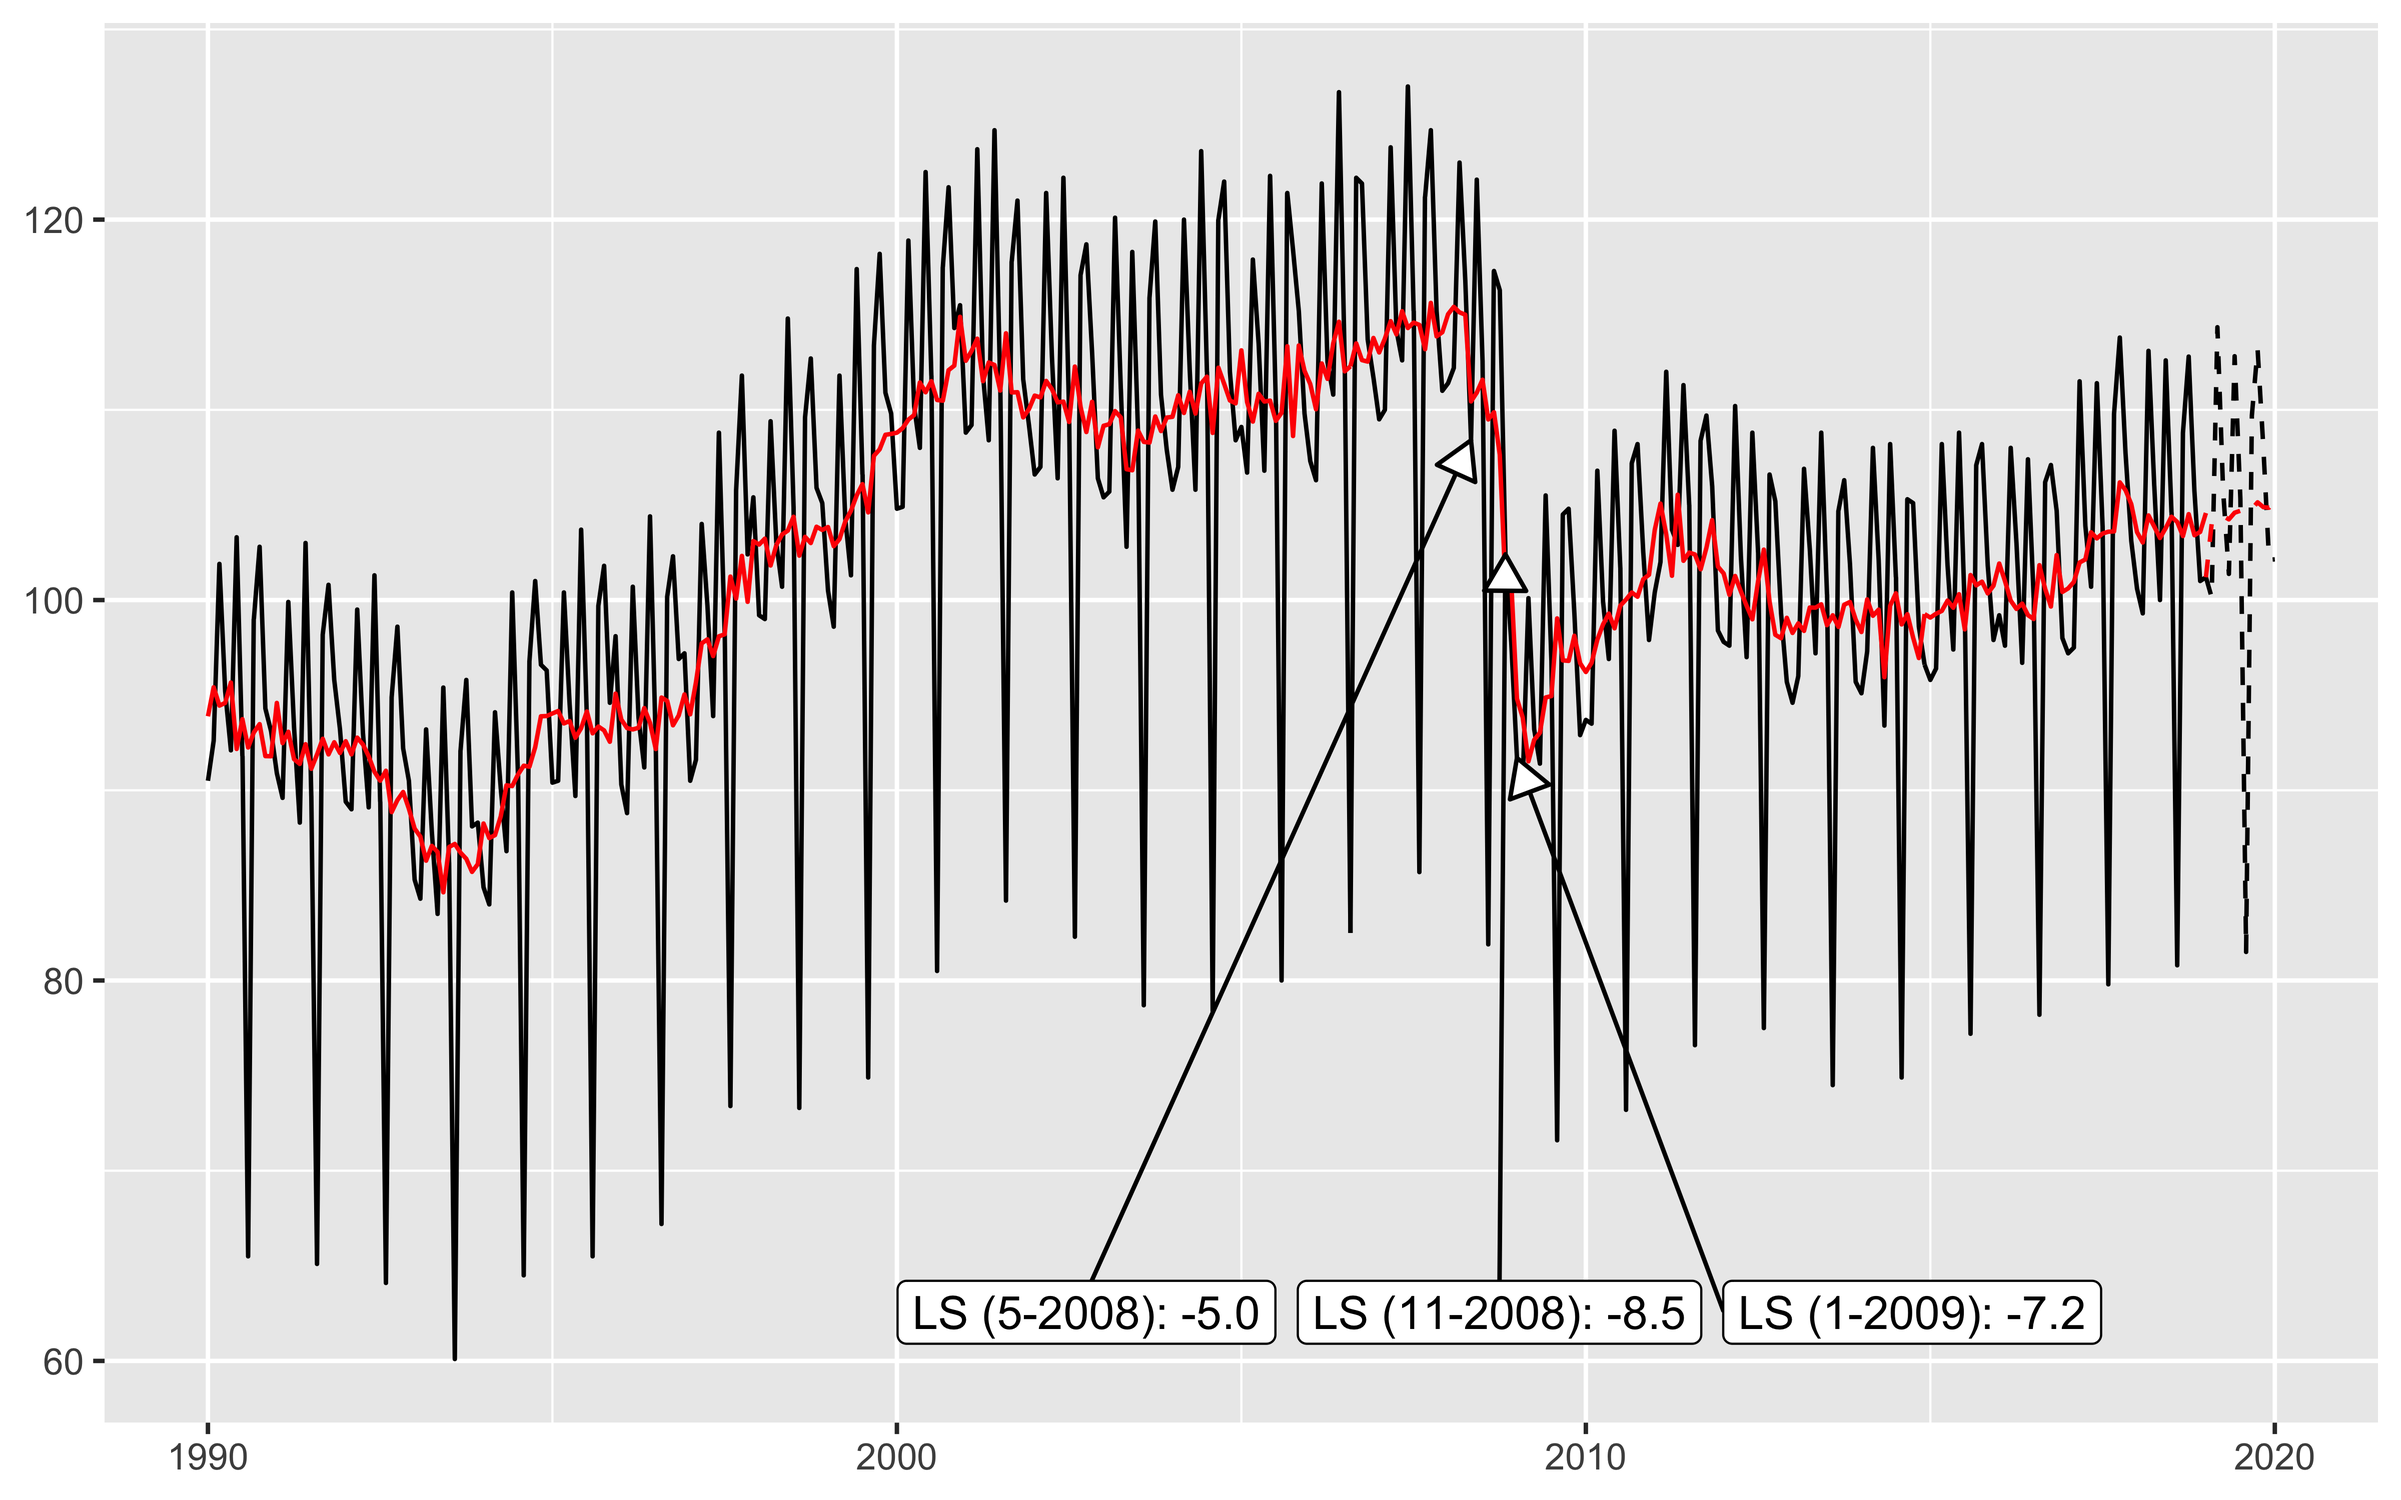
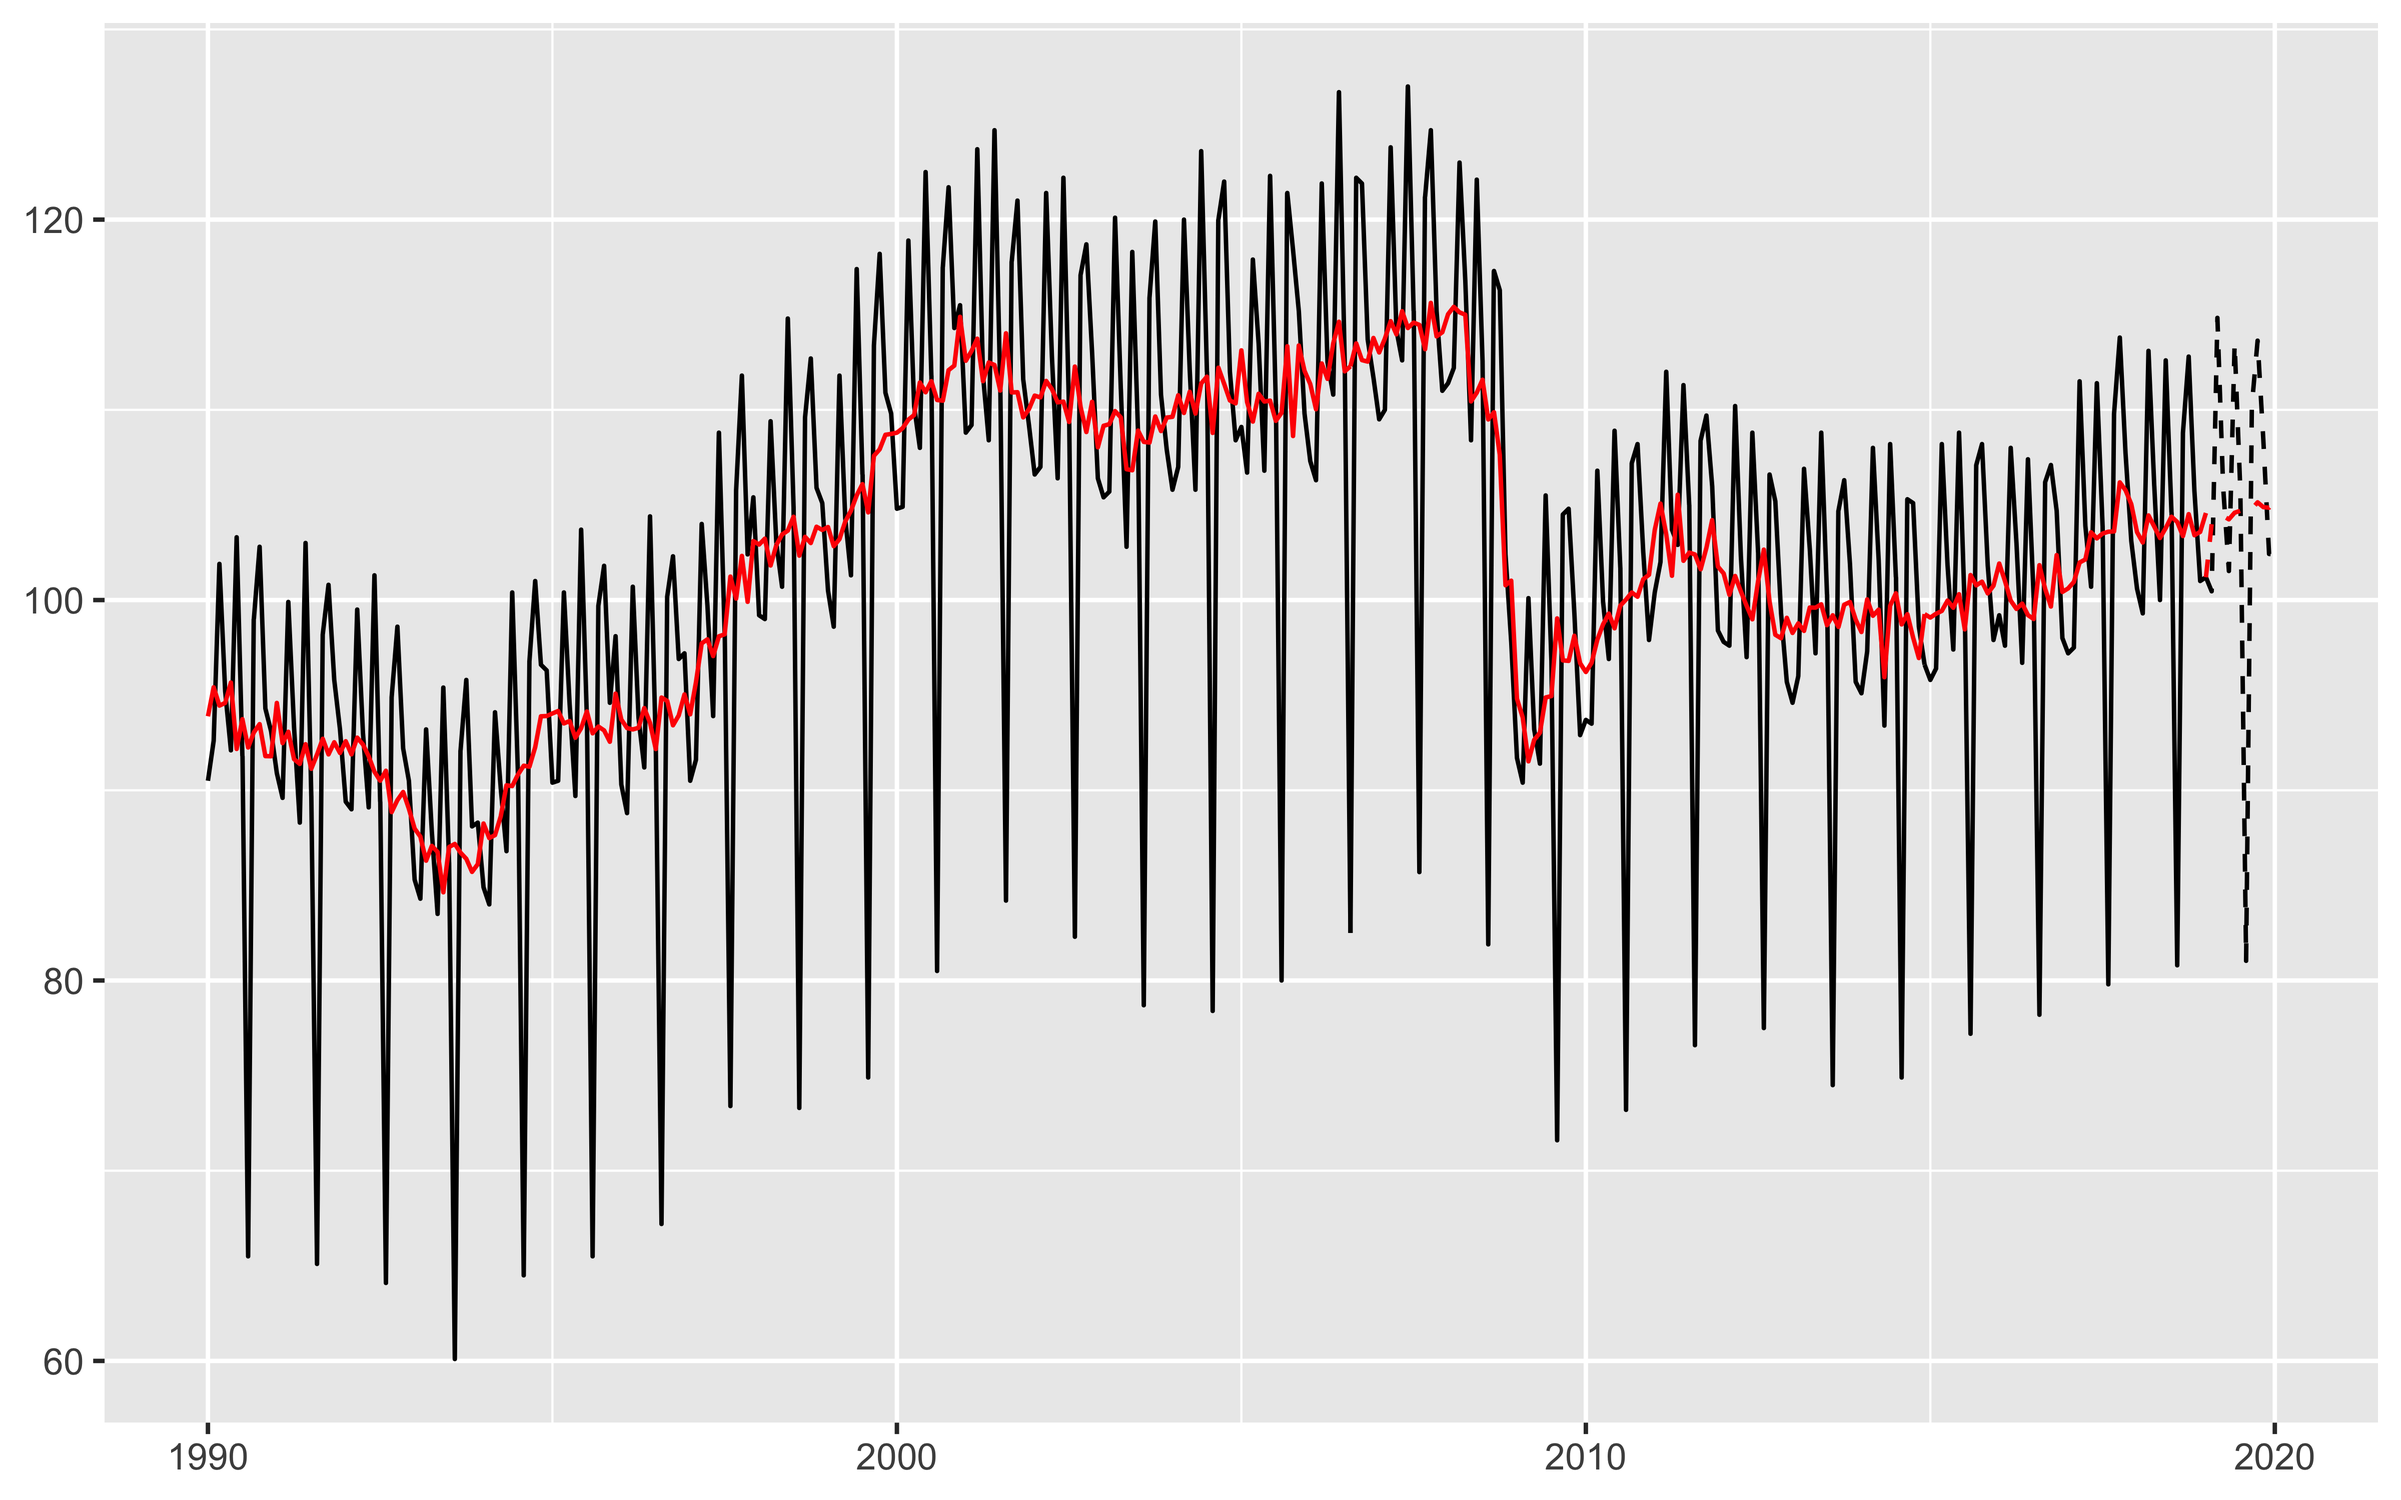
update documentation

diff --git a/docs/articles/rjdmarkdown-html.html b/docs/articles/rjdmarkdown-html.html
@@ -884,22 +884,16 @@ f-test on i (td)
 <div id="tramo-seats-model" class="section level1">
 <h1 class="hasAnchor">
 <a href="#tramo-seats-model" class="anchor"></a>TRAMO-SEATS model</h1>
-<p>Some others graphics can also be added with the <code>ggdemetra</code> package</p>
+<p>Some others graphics can also be added with the <a href="https://aqlt.github.io/ggdemetra/"><code>ggdemetra</code></a> package, for example to add the seasonally adjusted series and its forecasts:</p>
 <div class="sourceCode" id="cb5"><pre class="sourceCode r"><code class="sourceCode r"><a class="sourceLine" id="cb5-1" title="1"><span class="kw"><a href="https://rdrr.io/r/base/library.html">library</a></span>(ggdemetra)</a>
 <a class="sourceLine" id="cb5-2" title="2"><span class="kw">ggplot</span>(<span class="dt">data =</span> ipi_c_eu_df, <span class="dt">mapping =</span> <span class="kw">aes</span>(<span class="dt">x =</span> date, <span class="dt">y =</span> FR)) <span class="op">+</span></a>
 <a class="sourceLine" id="cb5-3" title="3"><span class="st">    </span><span class="kw">geom_line</span>() <span class="op">+</span></a>
 <a class="sourceLine" id="cb5-4" title="4"><span class="st">    </span><span class="kw">labs</span>(<span class="dt">title =</span> <span class="ot">NULL</span>,</a>
 <a class="sourceLine" id="cb5-5" title="5">         <span class="dt">x =</span> <span class="ot">NULL</span>, <span class="dt">y =</span> <span class="ot">NULL</span>) <span class="op">+</span></a>
 <a class="sourceLine" id="cb5-6" title="6"><span class="st">    </span><span class="kw"><a href="https://rdrr.io/pkg/ggdemetra/man/geom_sa.html">geom_sa</a></span>(<span class="dt">component =</span> <span class="st">"y_f"</span>, <span class="dt">linetype =</span> <span class="dv">2</span>,</a>
-<a class="sourceLine" id="cb5-7" title="7">            <span class="dt">frequency =</span> <span class="dv">12</span>) <span class="op">+</span><span class="st"> </span></a>
+<a class="sourceLine" id="cb5-7" title="7">            <span class="dt">frequency =</span> <span class="dv">12</span>, <span class="dt">method =</span> <span class="st">"tramoseats"</span>) <span class="op">+</span><span class="st"> </span></a>
 <a class="sourceLine" id="cb5-8" title="8"><span class="st">    </span><span class="kw"><a href="https://rdrr.io/pkg/ggdemetra/man/geom_sa.html">geom_sa</a></span>(<span class="dt">component =</span> <span class="st">"sa"</span>, <span class="dt">color =</span> <span class="st">"red"</span>) <span class="op">+</span></a>
-<a class="sourceLine" id="cb5-9" title="9"><span class="st">    </span><span class="kw"><a href="https://rdrr.io/pkg/ggdemetra/man/geom_sa.html">geom_sa</a></span>(<span class="dt">component =</span> <span class="st">"sa_f"</span>, <span class="dt">color =</span> <span class="st">"red"</span>, <span class="dt">linetype =</span> <span class="dv">2</span>) <span class="op">+</span><span class="st"> </span></a>
-<a class="sourceLine" id="cb5-10" title="10"><span class="st">    </span><span class="kw"><a href="https://rdrr.io/pkg/ggdemetra/man/geom_outlier.html">geom_outlier</a></span>(<span class="dt">geom =</span> <span class="st">"label_repel"</span>,</a>
-<a class="sourceLine" id="cb5-11" title="11">                 <span class="dt">coefficients =</span> <span class="ot">TRUE</span>,</a>
-<a class="sourceLine" id="cb5-12" title="12">                 <span class="dt">vjust =</span> <span class="dv">4</span>,</a>
-<a class="sourceLine" id="cb5-13" title="13">                 <span class="dt">ylim =</span> <span class="kw"><a href="https://rdrr.io/r/base/c.html">c</a></span>(<span class="ot">NA</span>, <span class="dv">65</span>), <span class="dt">force =</span> <span class="dv">10</span>,</a>
-<a class="sourceLine" id="cb5-14" title="14">                 <span class="dt">arrow =</span> <span class="kw">arrow</span>(<span class="dt">length =</span> <span class="kw">unit</span>(<span class="fl">0.03</span>, <span class="st">"npc"</span>),</a>
-<a class="sourceLine" id="cb5-15" title="15">                               <span class="dt">type =</span> <span class="st">"closed"</span>, <span class="dt">ends =</span> <span class="st">"last"</span>))</a></code></pre></div>
+<a class="sourceLine" id="cb5-9" title="9"><span class="st">    </span><span class="kw"><a href="https://rdrr.io/pkg/ggdemetra/man/geom_sa.html">geom_sa</a></span>(<span class="dt">component =</span> <span class="st">"sa_f"</span>, <span class="dt">color =</span> <span class="st">"red"</span>, <span class="dt">linetype =</span> <span class="dv">2</span>)</a></code></pre></div>
 <div class="figure">
 <img src="rjdmarkdown-html_files/figure-html/unnamed-chunk-4-1.png" alt="Seasonal adjustment of the French industrial production index" width="100%"><p class="caption">
 Seasonal adjustment of the French industrial production index

diff --git a/docs/articles/rjdmarkdown-pdf.html b/docs/articles/rjdmarkdown-pdf.html
@@ -179,22 +179,16 @@ S-I Ratio
 <div id="tramo-seats-model" class="section level1">
 <h1 class="hasAnchor">
 <a href="#tramo-seats-model" class="anchor"></a>TRAMO-SEATS model</h1>
-<p>Some others graphics can also be added with the <code>ggdemetra</code> package</p>
+<p>Some others graphics can also be added with the <a href="https://aqlt.github.io/ggdemetra/"><code>ggdemetra</code></a> package, for example to add the seasonally adjusted series and its forecasts:</p>
 <div class="sourceCode" id="cb5"><pre class="sourceCode r"><code class="sourceCode r"><a class="sourceLine" id="cb5-1" title="1"><span class="kw"><a href="https://rdrr.io/r/base/library.html">library</a></span>(ggdemetra)</a>
 <a class="sourceLine" id="cb5-2" title="2"><span class="kw">ggplot</span>(<span class="dt">data =</span> ipi_c_eu_df, <span class="dt">mapping =</span> <span class="kw">aes</span>(<span class="dt">x =</span> date, <span class="dt">y =</span> FR)) <span class="op">+</span></a>
 <a class="sourceLine" id="cb5-3" title="3"><span class="st">    </span><span class="kw">geom_line</span>() <span class="op">+</span></a>
 <a class="sourceLine" id="cb5-4" title="4"><span class="st">    </span><span class="kw">labs</span>(<span class="dt">title =</span> <span class="ot">NULL</span>,</a>
 <a class="sourceLine" id="cb5-5" title="5">         <span class="dt">x =</span> <span class="ot">NULL</span>, <span class="dt">y =</span> <span class="ot">NULL</span>) <span class="op">+</span></a>
 <a class="sourceLine" id="cb5-6" title="6"><span class="st">    </span><span class="kw"><a href="https://rdrr.io/pkg/ggdemetra/man/geom_sa.html">geom_sa</a></span>(<span class="dt">component =</span> <span class="st">"y_f"</span>, <span class="dt">linetype =</span> <span class="dv">2</span>,</a>
-<a class="sourceLine" id="cb5-7" title="7">            <span class="dt">frequency =</span> <span class="dv">12</span>) <span class="op">+</span><span class="st"> </span></a>
+<a class="sourceLine" id="cb5-7" title="7">            <span class="dt">frequency =</span> <span class="dv">12</span>, <span class="dt">method =</span> <span class="st">"tramoseats"</span>) <span class="op">+</span><span class="st"> </span></a>
 <a class="sourceLine" id="cb5-8" title="8"><span class="st">    </span><span class="kw"><a href="https://rdrr.io/pkg/ggdemetra/man/geom_sa.html">geom_sa</a></span>(<span class="dt">component =</span> <span class="st">"sa"</span>, <span class="dt">color =</span> <span class="st">"red"</span>) <span class="op">+</span></a>
-<a class="sourceLine" id="cb5-9" title="9"><span class="st">    </span><span class="kw"><a href="https://rdrr.io/pkg/ggdemetra/man/geom_sa.html">geom_sa</a></span>(<span class="dt">component =</span> <span class="st">"sa_f"</span>, <span class="dt">color =</span> <span class="st">"red"</span>, <span class="dt">linetype =</span> <span class="dv">2</span>) <span class="op">+</span><span class="st"> </span></a>
-<a class="sourceLine" id="cb5-10" title="10"><span class="st">    </span><span class="kw"><a href="https://rdrr.io/pkg/ggdemetra/man/geom_outlier.html">geom_outlier</a></span>(<span class="dt">geom =</span> <span class="st">"label_repel"</span>,</a>
-<a class="sourceLine" id="cb5-11" title="11">                 <span class="dt">coefficients =</span> <span class="ot">TRUE</span>,</a>
-<a class="sourceLine" id="cb5-12" title="12">                 <span class="dt">vjust =</span> <span class="dv">4</span>,</a>
-<a class="sourceLine" id="cb5-13" title="13">                 <span class="dt">ylim =</span> <span class="kw"><a href="https://rdrr.io/r/base/c.html">c</a></span>(<span class="ot">NA</span>, <span class="dv">65</span>), <span class="dt">force =</span> <span class="dv">10</span>,</a>
-<a class="sourceLine" id="cb5-14" title="14">                 <span class="dt">arrow =</span> <span class="kw">arrow</span>(<span class="dt">length =</span> <span class="kw">unit</span>(<span class="fl">0.03</span>, <span class="st">"npc"</span>),</a>
-<a class="sourceLine" id="cb5-15" title="15">                               <span class="dt">type =</span> <span class="st">"closed"</span>, <span class="dt">ends =</span> <span class="st">"last"</span>))</a></code></pre></div>
+<a class="sourceLine" id="cb5-9" title="9"><span class="st">    </span><span class="kw"><a href="https://rdrr.io/pkg/ggdemetra/man/geom_sa.html">geom_sa</a></span>(<span class="dt">component =</span> <span class="st">"sa_f"</span>, <span class="dt">color =</span> <span class="st">"red"</span>, <span class="dt">linetype =</span> <span class="dv">2</span>)</a></code></pre></div>
 <div class="figure">
 <img src="rjdmarkdown-pdf_files/figure-html/unnamed-chunk-4-1.png" alt="Seasonal adjustment of the French industrial production index" width="700"><p class="caption">
 Seasonal adjustment of the French industrial production index
